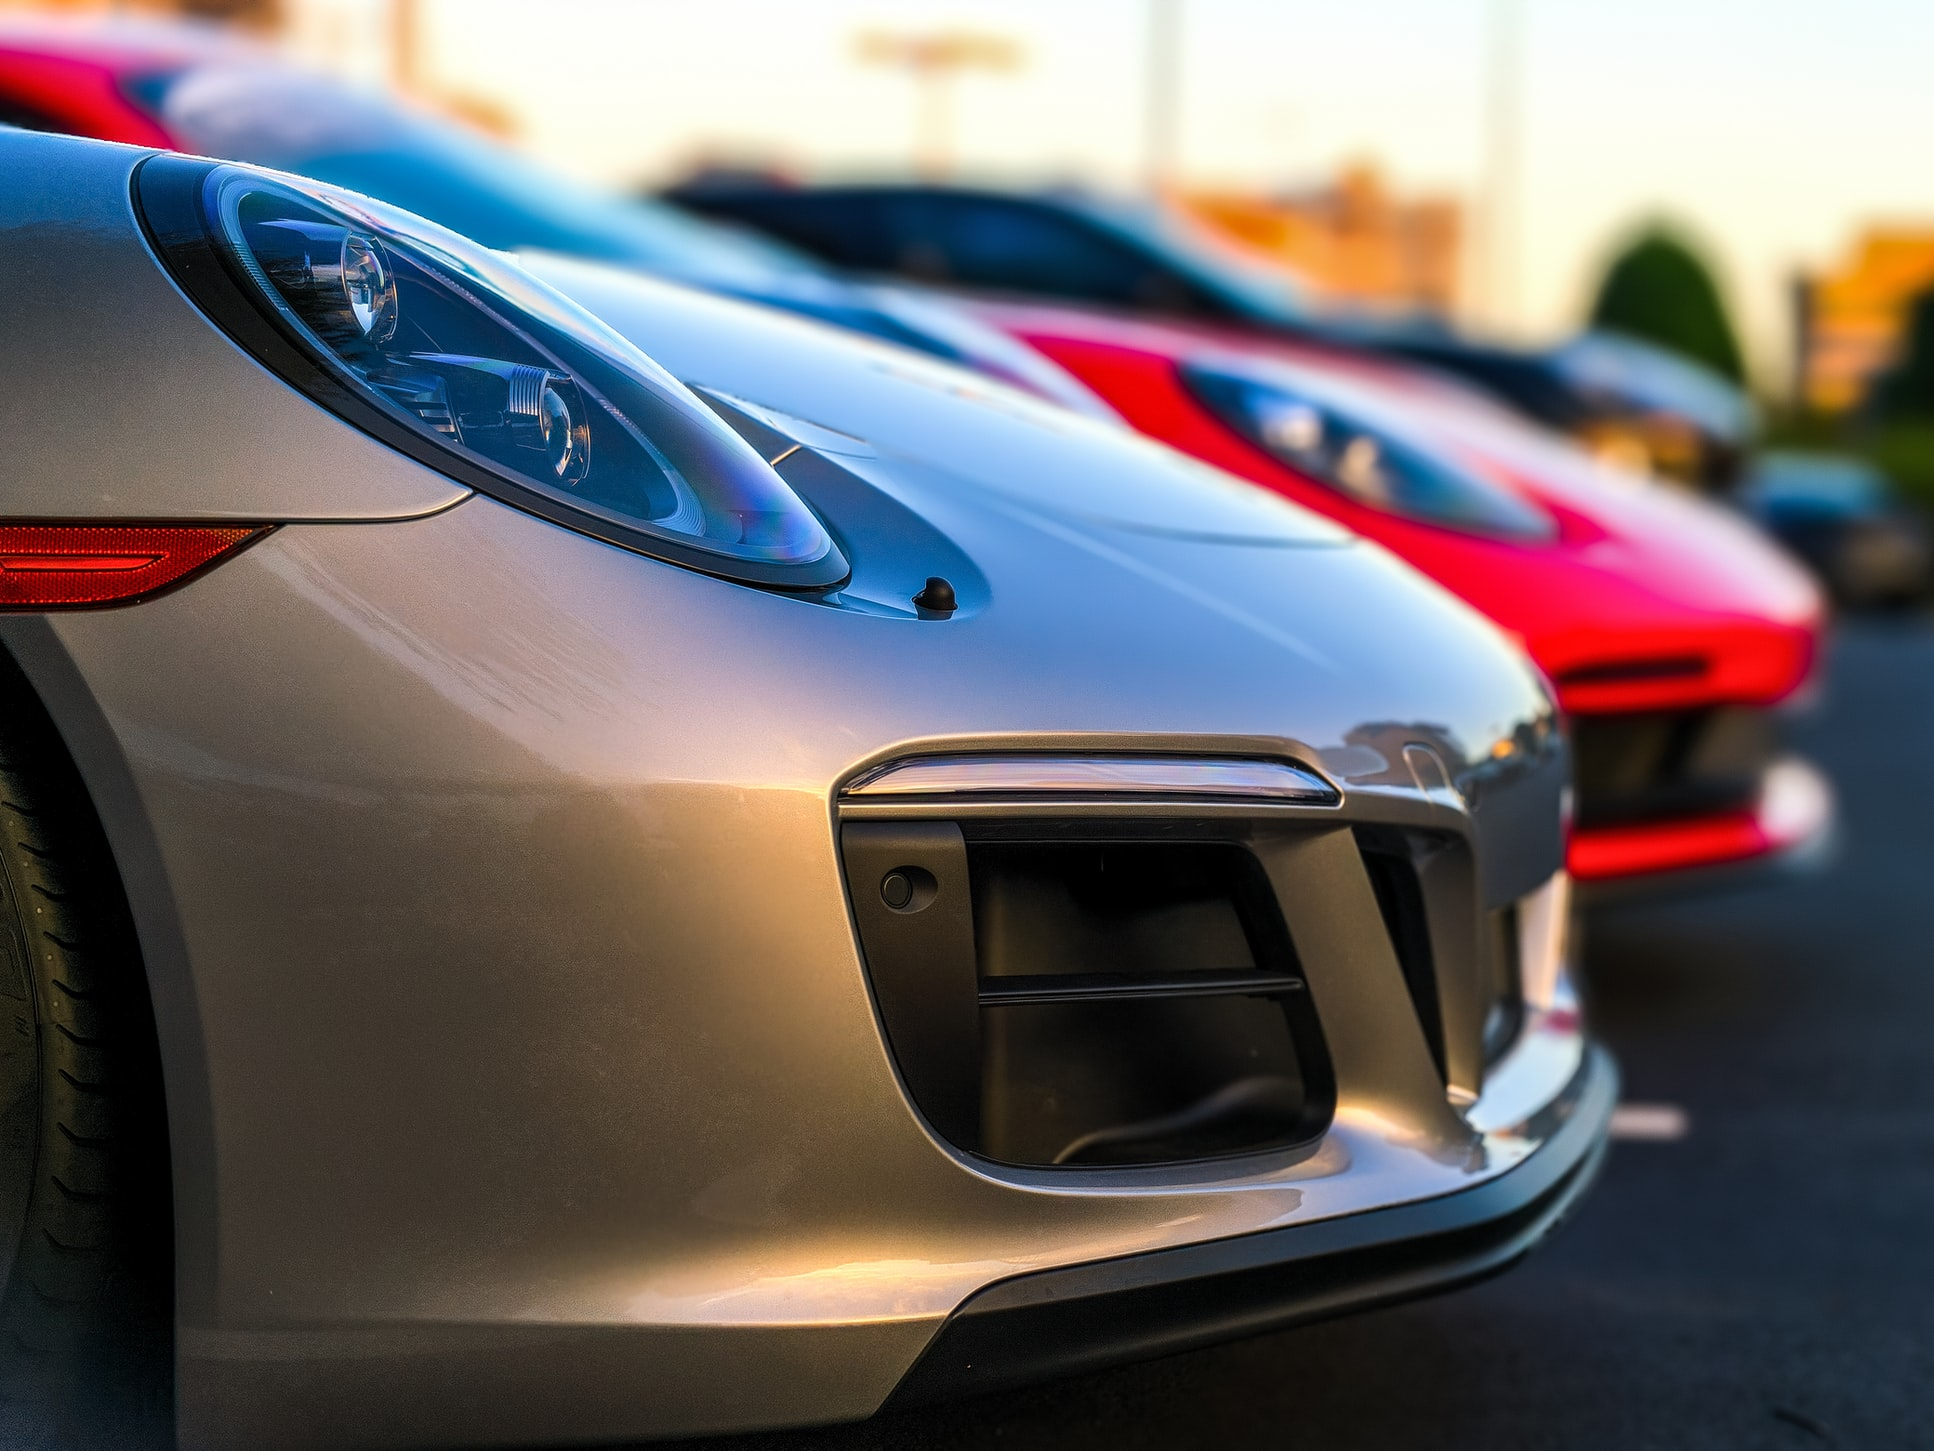
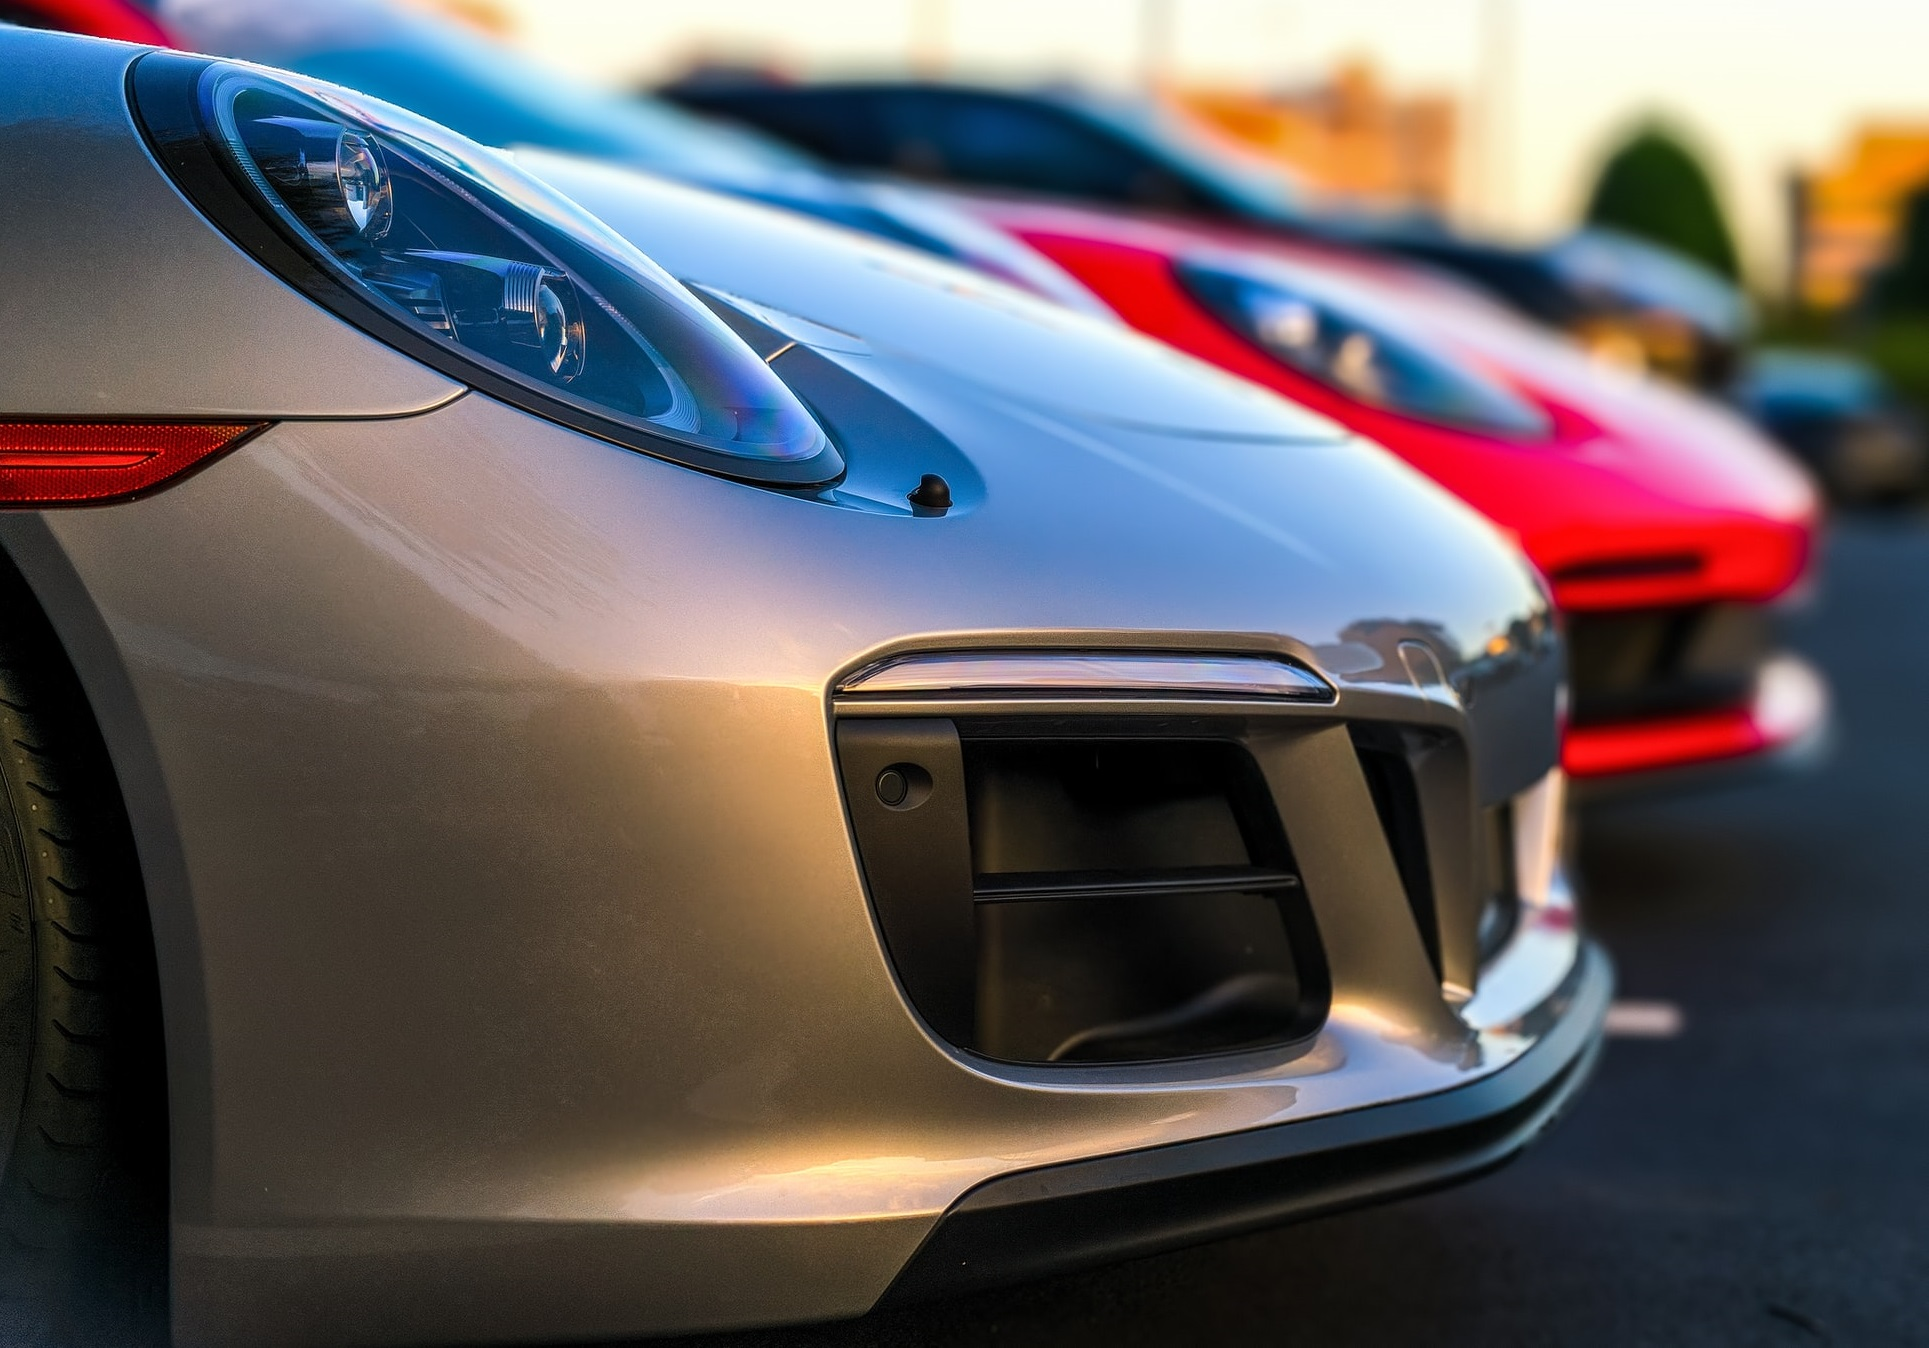
Finalized home page for agent.

diff --git a/wroom-ui/src/app/modules/agent/home-agent/home-agent.component.html b/wroom-ui/src/app/modules/agent/home-agent/home-agent.component.html
@@ -1,7 +1,38 @@
 <div class="container">
-    <div class="image" fxLayout="row" fxLayOutAlign="center">
-        <div class="text-wrapper" fxFlex fxLayout="row" fxLayoutAlign="center">
-            <h1 style="font-size: 100px;">Welcome to WROOM!</h1>
+    <div class="welcome" fxLayout="column" fxLayoutAlign="center center">
+        <h1>WROOM</h1>
+        <!-- To do: neki informativni tekst -->
+        <div fxLayout="row">
+            <button mat-stroked-button color="primary">Rent a car</button>
         </div>
     </div>
+
+    <div class="content"  fxLayout="row" fxLayoutAlign="center" style="margin: 10px;">
+        <div fxFlex></div>
+        <mat-card fxFlex="50%" style="padding: 3px; margin: 0px; height: 100%;">
+            
+            <mat-card-content fxLayout="row" fxLayoutAlign="center center">
+                <table fxFlex>
+                    <tr>
+                        <td><mat-icon>location_on</mat-icon></td>
+                        <td><p>Trg Dositeja Obradovića 6, Novi Sad</p></td>
+                    </tr>
+                    <tr>
+                        <td><mat-icon>mail_outline</mat-icon></td>
+                        <td><p>info@wroom.org</p></td>
+                    </tr>
+                </table>
+
+                <div class="container-map" fxFlex>
+                    <angular-yandex-map [center]="[45.2461012, 19.8495081]" [zoom]="15">
+                        <angular-yandex-placemark [geometry]="[45.2461012, 19.8495081]"></angular-yandex-placemark>
+                    </angular-yandex-map>
+                </div>
+            </mat-card-content>
+        </mat-card>
+        <div fxFlex></div>
+
+
+    </div>
+
 </div>

diff --git a/wroom-ui/src/app/modules/agent/agent.module.ts b/wroom-ui/src/app/modules/agent/agent.module.ts
@@ -1,14 +1,9 @@
 import { NgModule } from '@angular/core';
-import { CommonModule } from '@angular/common';
 import { FormsModule, ReactiveFormsModule } from '@angular/forms';
 import { AgentRoutingModule } from './agent-routing.module';
 import { HomeAgentComponent } from './home-agent/home-agent.component';
-import { FlexLayoutModule } from '@angular/flex-layout';
-import { MatButtonModule } from '@angular/material/button';
-import { MatSidenavModule } from '@angular/material/sidenav';
-import { MatToolbarModule } from '@angular/material/toolbar';
-import { MatFormFieldModule } from '@angular/material/form-field';
 import { SharedModule } from '../shared/shared.module';
+import { MaterialModule } from '../shared/material.module';
 
 
 
@@ -19,13 +14,9 @@ import { SharedModule } from '../shared/shared.module';
   imports: [
     AgentRoutingModule, 
     SharedModule,
+    MaterialModule,
     FormsModule,
-    ReactiveFormsModule,
-    FlexLayoutModule,
-    MatButtonModule,
-    MatSidenavModule,
-    MatToolbarModule,
-    MatFormFieldModule
+    ReactiveFormsModule
   ],
   exports: [
   ]

diff --git a/wroom-ui/src/app/app.component.html b/wroom-ui/src/app/app.component.html
@@ -1,3 +1,33 @@
-<main style="height: 100%;">
-  <router-outlet></router-outlet>
-</main>
+<mat-sidenav-container>
+  <mat-sidenav #sidenav role="navigation">
+    <!-- Agent links -->
+    <div fxLayout="column">
+      <mat-nav-list>
+        <a mat-list-item routerLink="/">Register a Car</a>
+        <a mat-list-item routerLink="/">My Ads</a>
+        <!-- ... -->
+      </mat-nav-list>
+
+    </div>
+  </mat-sidenav>
+  <mat-sidenav-content>
+
+    <mat-toolbar color="warn">
+      <div>
+        <button mat-icon-button (click)="sidenav.toggle()">
+          <mat-icon>menu</mat-icon>
+        </button>
+      </div>
+      <div><a routerLink="/">WROOM</a></div>
+      <div fxFlex fxLayout fxLayoutAlign="flex-end">
+        <ul fxLayout fxLayoutGap="10px" class="navigation-items">
+          <li><a routerLink="/">Log in</a></li>
+          <li><a routerLink="/">Sign up</a></li>
+        </ul>
+      </div>
+    </mat-toolbar>
+    <main style="height: 100%;">
+      <router-outlet></router-outlet>
+    </main>
+  </mat-sidenav-content>
+</mat-sidenav-container>

diff --git a/wroom-ui/src/app/modules/shared/shared.module.ts b/wroom-ui/src/app/modules/shared/shared.module.ts
@@ -1,19 +1,25 @@
 import { NgModule } from '@angular/core';
 import { CommonModule } from '@angular/common';
+import { AngularYandexMapsModule } from 'angular8-yandex-maps';
+
+const YANDEX_API_KEY = 'fb79ab56-36e3-4d30-90f0-fb48b2249b8e';
 
 @NgModule({
   declarations: [
     // This is where all declared components go! (if you add new component,
     // import it here!)
+    
   ],
   imports: [
-    CommonModule
+    CommonModule,
+    AngularYandexMapsModule.forRoot(YANDEX_API_KEY)
   ],
   exports: [
     // If you want your component to be usable from outside of this module,
     // you need to export it. This is because this module is imported in
     // AppModule, so everything that is exported here will be imported in AppModule
-    CommonModule
+    CommonModule,
+    AngularYandexMapsModule
   ]
 })
 export class SharedModule { }

diff --git a/wroom-ui/src/app/modules/shared/material.module.ts b/wroom-ui/src/app/modules/shared/material.module.ts
@@ -1,6 +1,12 @@
 import { NgModule } from '@angular/core';
 import { MatButtonModule } from '@angular/material/button';
 import { MatTableModule } from '@angular/material/table';
+import { MatCardModule } from '@angular/material/card';
+import { MatIconModule } from '@angular/material/icon';
+import { MatSidenavModule } from '@angular/material/sidenav';
+import { MatToolbarModule } from '@angular/material/toolbar';
+import { MatListModule } from '@angular/material/list';
+
 import { FlexLayoutModule } from '@angular/flex-layout';
 
 
@@ -8,7 +14,12 @@ import { FlexLayoutModule } from '@angular/flex-layout';
 const modules = [
   MatButtonModule,
   MatTableModule,
-  FlexLayoutModule
+  FlexLayoutModule,
+  MatCardModule,
+  MatIconModule,
+  MatSidenavModule,
+  MatToolbarModule,
+  MatListModule
 ]
 
 @NgModule({

diff --git a/wroom-ui/src/app/modules/agent/home-agent/home-agent.component.css b/wroom-ui/src/app/modules/agent/home-agent/home-agent.component.css
@@ -1,18 +1,24 @@
 .container {
+    margin-top: 25px;
+    padding: 10px;
     height: 100%;
 }
 
-.image {
-    background-attachment: fixed;
-    background-repeat: no-repeat;
-    background-size: cover;
-    background-image: url('../../../../assets/headlights.jpg');
-    height: 100%;
-    width: 100%;
+.welcome {
+    color: white;
+    background-image: url('../../../../assets/cars.jpg');
+    height: 70%;
 }
 
-.text-wrapper {
-    color: rgba(255, 255, 255, 0.473);
-    text-align: center;
-    padding-top: 150px;
+.welcome h1 {
+    font-size: 75px;
+}
+
+.content {
+    height: 30%;
+}
+
+.container-map {
+    /* width: 1000px; */
+    height: 200px;
 }

diff --git a/wroom-ui/src/app/app.component.css b/wroom-ui/src/app/app.component.css
@@ -2,10 +2,34 @@ mat-sidenav-container, mat-sidenav-content, mat-sidenav {
     height: 100%;
 }
 
+mat-sidenav-content {
+    background-color: rgb(36, 36, 36);
+}
+
 mat-sidenav {
     width: 250px;
 }
 
 router-outlet {
     height: 100%;
+}
+
+a {
+    text-decoration: none;
+    color: white;
+}
+
+a:hover,
+a:active {
+    color: lightgray;
+}
+
+.navigation-items {
+    list-style: none;
+    padding: 0;
+    margin: 0;
+}
+
+.navigation-items li {
+    font-size: 16px;
 }

diff --git a/wroom-ui/src/custom-theme.scss b/wroom-ui/src/custom-theme.scss
@@ -13,7 +13,7 @@
 // (imported above). For each palette, you can optionally specify a default, lighter, and darker
 // hue. Available color palettes: https://material.io/design/color/
 $wroom-ui-primary: mat-palette($mat-gray, 700, 900, 600);
-$wroom-ui-accent: mat-palette($mat-red, 700, 900, 400);
+$wroom-ui-accent: mat-palette($mat-red, 800, 900, 400);
 
 // The warn palette is optional (defaults to red).
 $wroom-ui-warn: mat-palette($mat-gray, 900);

diff --git a/wroom-ui/src/styles.css b/wroom-ui/src/styles.css
@@ -1,4 +1,8 @@
 /* You can add global styles to this file, and also import other style files */
 
 html, body { height: 100%; }
-body { margin: 0; font-family: Roboto, "Helvetica Neue", sans-serif; }
+body { 
+    margin: 0; 
+    font-family: Roboto, "Helvetica Neue", sans-serif;
+}
+
